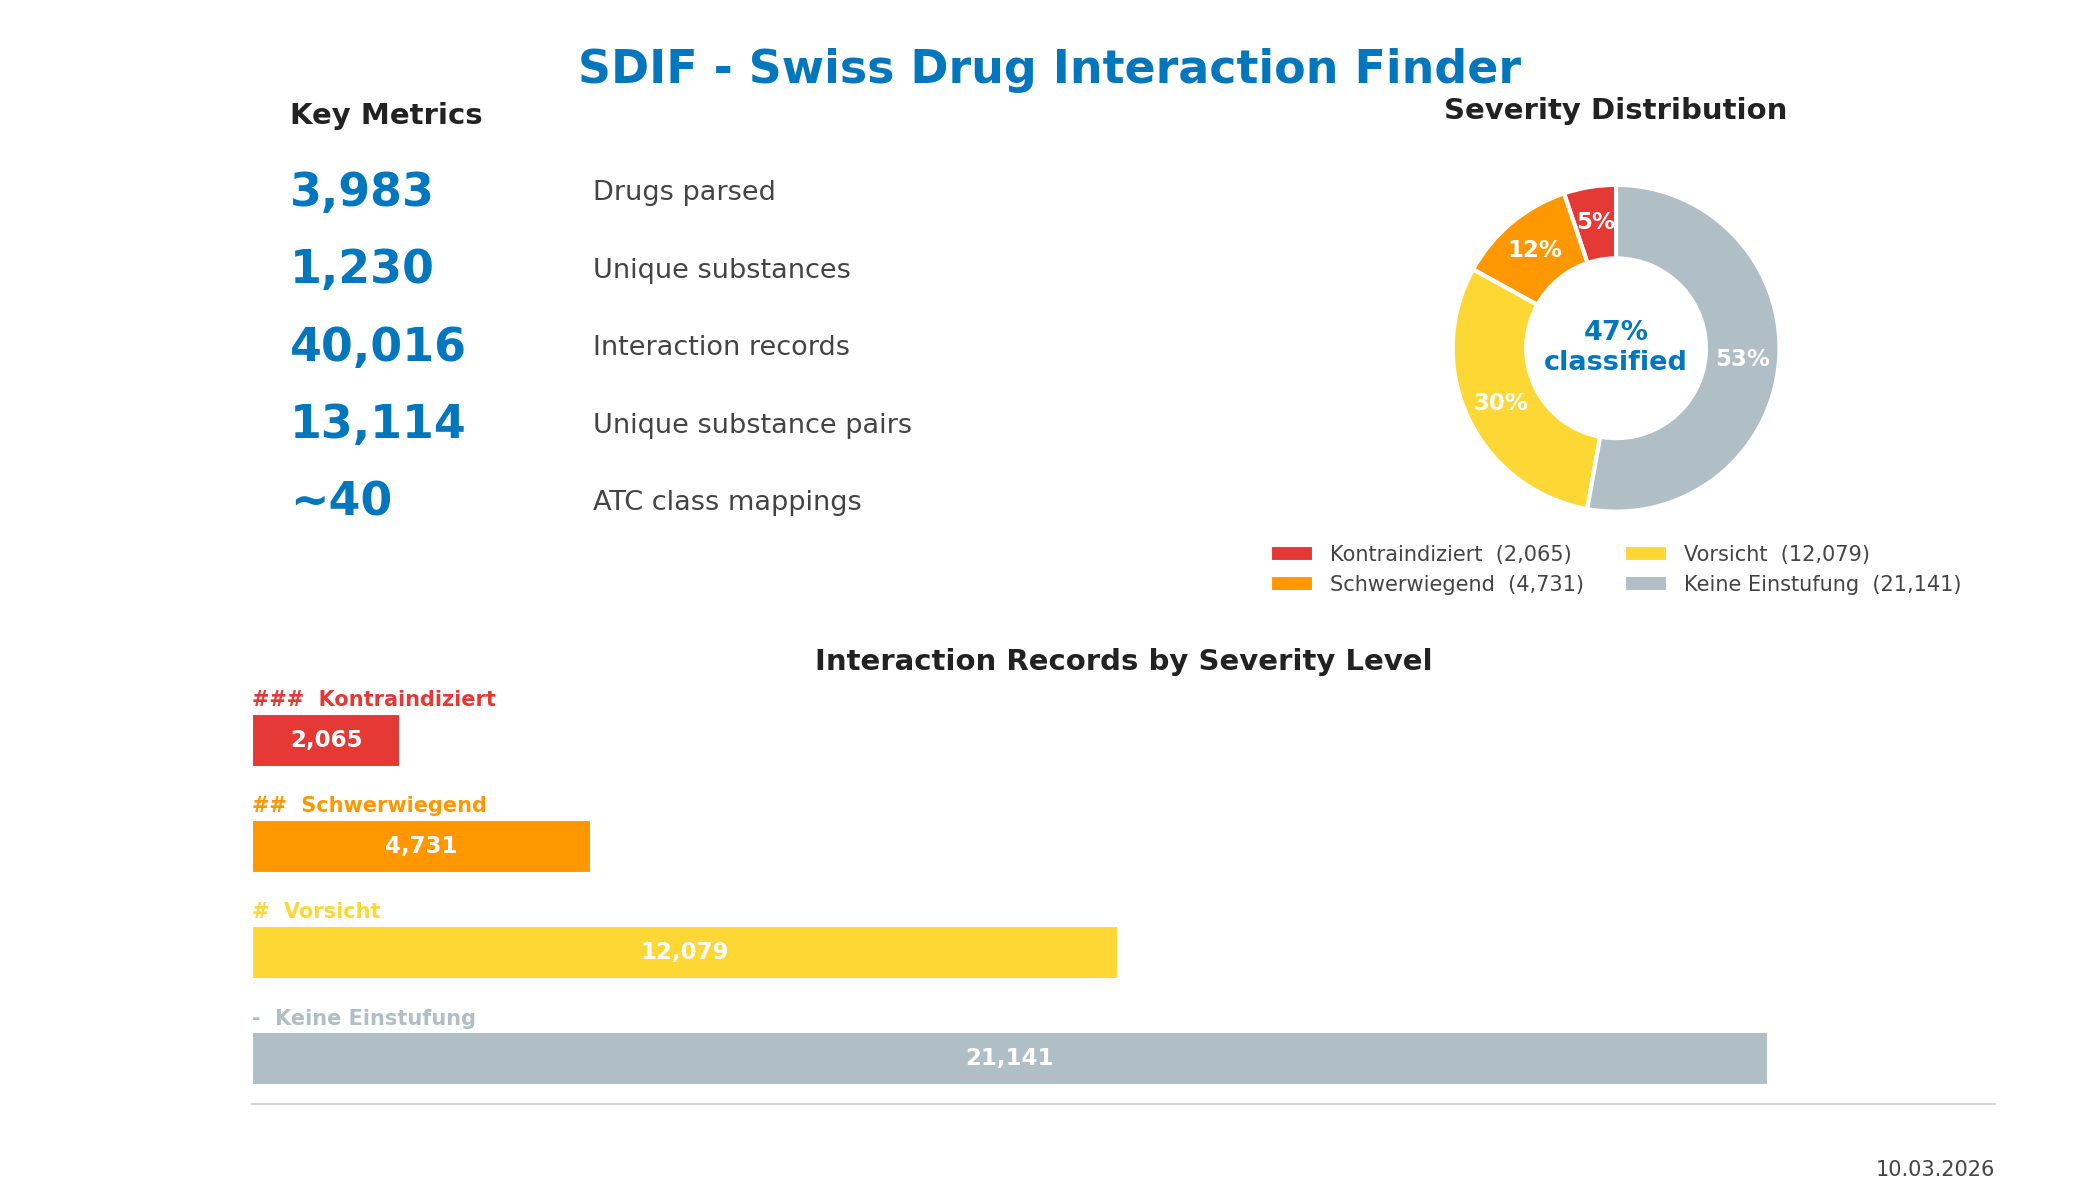
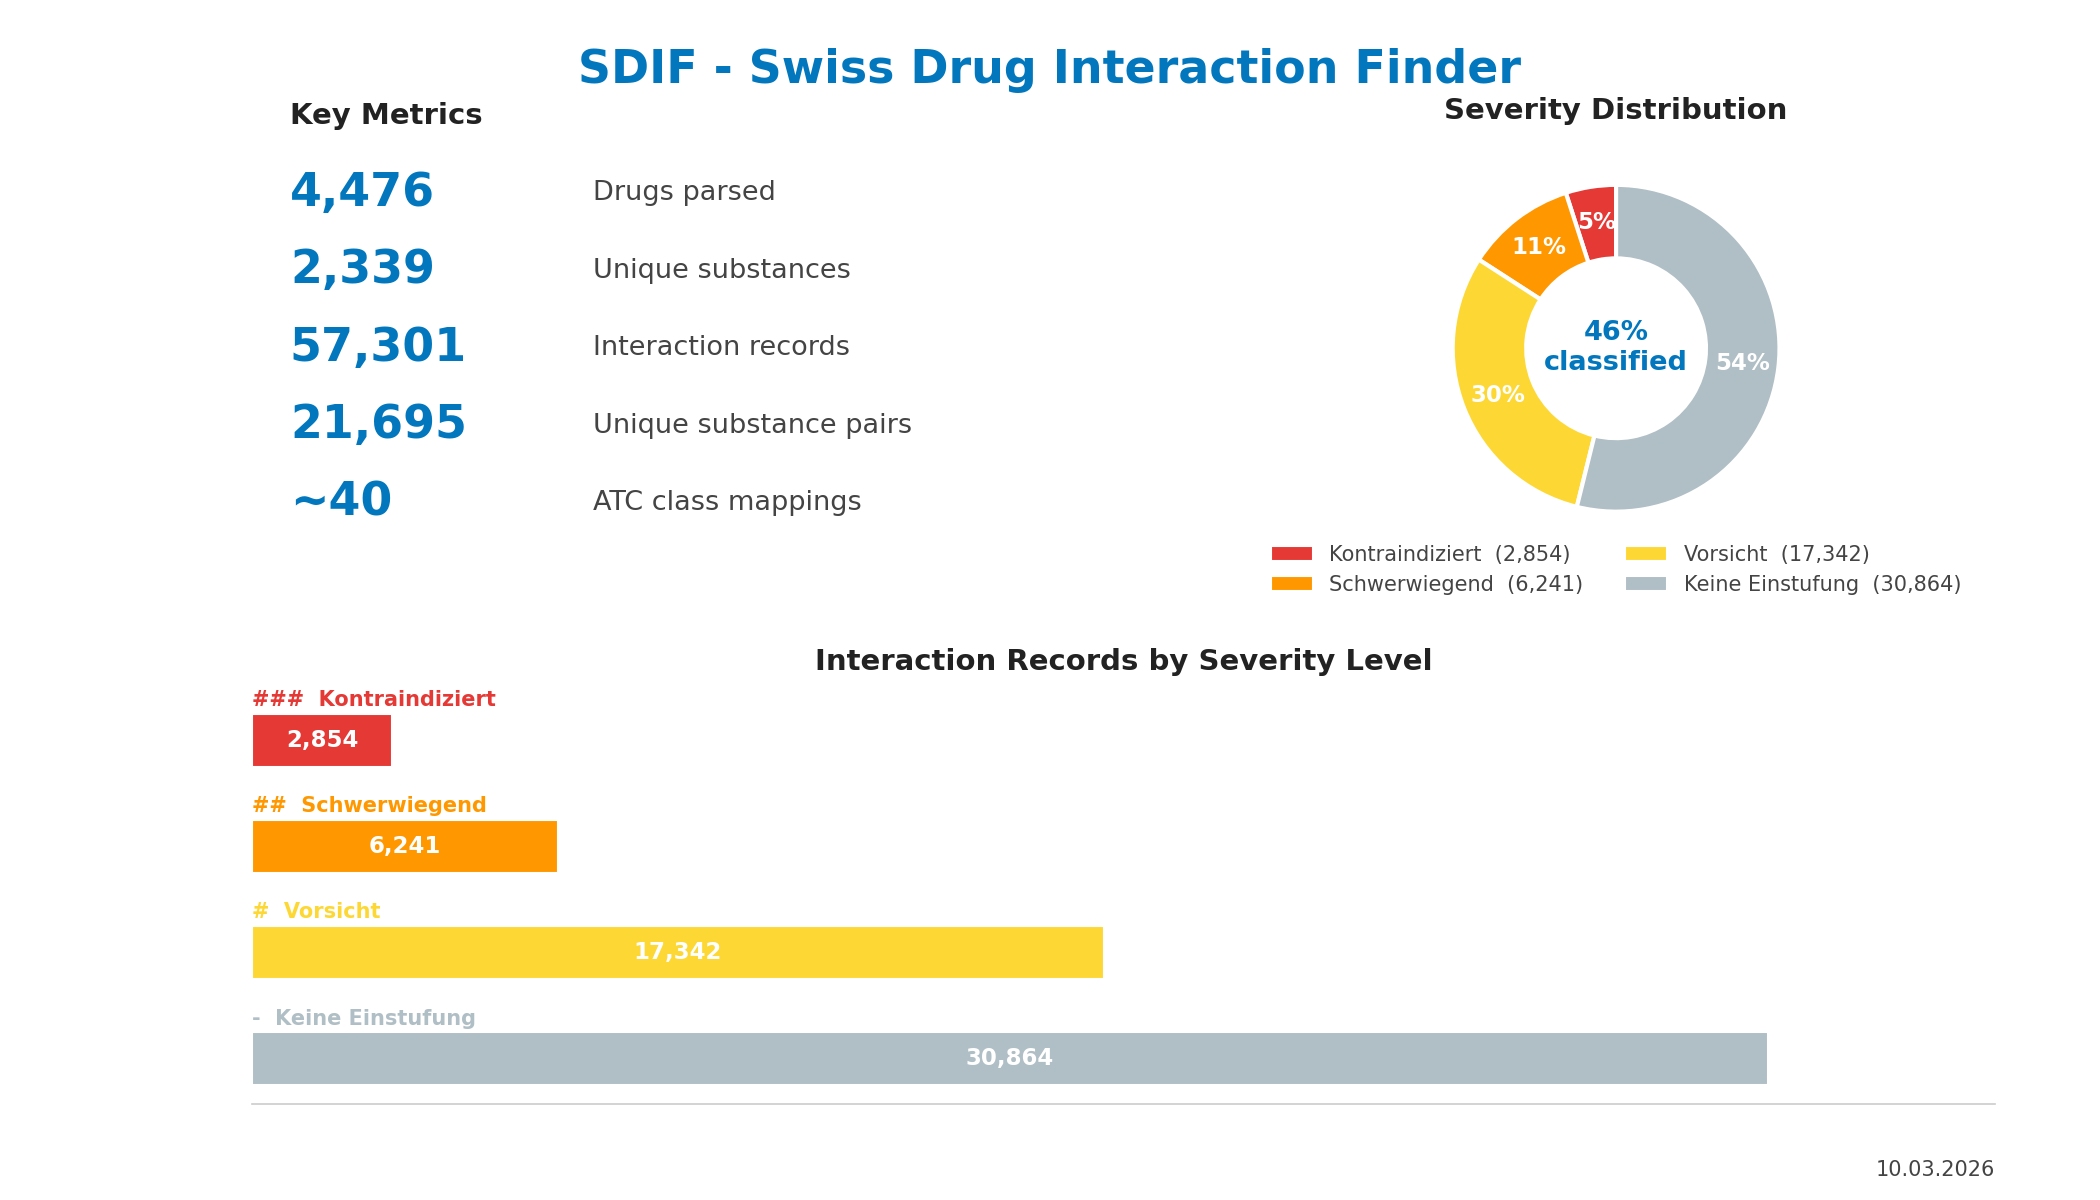
Extract substances from HTML Wirkstoffe section when ATC column is incomplete
518 entries in AmiKo DB have ATC codes but no substance names (e.g. "L01EE01;"
instead of "L01EE01;Trametinib"). Added fallback that parses the
Zusammensetzung → Wirkstoffe HTML section to recover substance names, handling
"als"/"ut" salt forms, Latin -um suffixes, and multi-substance entries.

Impact: +493 drugs, +230 substances, +17,285 interactions (+8,581 unique pairs).

diff --git a/src/main.rs b/src/main.rs
@@ -260,6 +260,107 @@ fn extract_interaction_section(content: &str) -> String {
     }
 }
 
+/// Extract active substance names from the Zusammensetzung/Wirkstoffe section of the HTML content.
+/// Falls back to this when the ATC column has a code but no substance name.
+fn extract_substances_from_html(content: &str) -> Vec<String> {
+    // Match Wirkstoff / Wirkstoffe / Wirkstoff(e) header
+    let wirkstoff_re = Regex::new(r"Wirkstoff(?:e|\(e\))?</p>").unwrap();
+    let p_tag_re = Regex::new(r#"<p[^>]*class="spacing1"[^>]*>([^<]+)</p>"#).unwrap();
+    let html_entity_re = Regex::new(r"&#\d+;").unwrap();
+    let und_re = Regex::new(r"\s+und\s+|\s+et\s+").unwrap();
+
+    let wirkstoff_pos = match wirkstoff_re.find(content) {
+        Some(m) => m.end(),
+        None => return Vec::new(),
+    };
+
+    // Collect <p> tag contents until we hit Hilfsstoff
+    let remainder = &content[wirkstoff_pos..];
+    let mut substance_text = String::new();
+    for cap in p_tag_re.captures_iter(remainder) {
+        let text = cap[1].trim().to_string();
+        let text_lower = text.to_lowercase();
+        if text_lower.contains("hilfsstoff") {
+            break;
+        }
+        // Skip italic sub-headers (e.g. "Tablettenkern:", "Filmtabletten:")
+        if text.ends_with(':') {
+            break;
+        }
+        if !substance_text.is_empty() {
+            substance_text.push_str(", ");
+        }
+        substance_text.push_str(&text);
+    }
+
+    if substance_text.is_empty() {
+        return Vec::new();
+    }
+
+    // Replace HTML entities (&#32; = space, etc.)
+    let substance_text = html_entity_re.replace_all(&substance_text, " ").to_string();
+
+    let mut substances = Vec::new();
+    // Split by comma for multi-substance entries
+    for part in substance_text.split(',') {
+        let part = part.trim();
+        if part.is_empty() {
+            continue;
+        }
+        // Split by "und" / "et" for entries like "Nivolumab und Relatlimab"
+        for name_raw in und_re.split(part) {
+            let name = extract_substance_name(name_raw.trim());
+            if name.len() > 2 {
+                substances.push(name);
+            }
+        }
+    }
+
+    substances
+}
+
+/// Clean up a single substance name from Wirkstoffe text.
+/// Handles patterns like:
+///   "Trametinib als Trametinibdimethylsulfoxid" → "Trametinib"
+///   "Desvenlafaxinum ut desvenlafaxini benzoas" → "Desvenlafaxin"
+///   "Fedratinib (als Dihydrochlorid-Monohydrat)." → "Fedratinib"
+///   "Bimekizumab, aus gentechnisch..." → "Bimekizumab"
+fn extract_substance_name(text: &str) -> String {
+    let mut name = text.to_string();
+
+    // Remove trailing period
+    name = name.trim_end_matches('.').trim().to_string();
+
+    // Take text before "als" or "ut" (salt form indicator)
+    for separator in &[" als ", " ut "] {
+        if let Some(pos) = name.to_lowercase().find(separator) {
+            name = name[..pos].trim().to_string();
+        }
+    }
+
+    // Remove parenthesized content
+    if let Some(pos) = name.find('(') {
+        name = name[..pos].trim().to_string();
+    }
+
+    // Strip trailing period again (in case it was before parentheses)
+    name = name.trim_end_matches('.').trim().to_string();
+
+    // Strip Latin -um suffix to get INN name (e.g. Desvenlafaxinum → Desvenlafaxin)
+    // But only for typical Latin pharmaceutical suffixes, not words like "Aluminium"
+    if name.ends_with("um") && name.len() > 6 {
+        let stem = &name[..name.len() - 2];
+        // Latin pharma names typically end in -inum, -abum, -ibum, etc.
+        // Check it's not a common word ending in -um (Aluminium, Calcium, etc.)
+        let lower = name.to_lowercase();
+        if !lower.ends_with("ium") && !lower.ends_with("eum") {
+            name = stem.to_string();
+        }
+    }
+
+    name
+}
+
 fn parse_all_drugs(conn: &Connection) -> Result<Vec<Drug>> {
     let mut stmt = conn.prepare(
         "SELECT _id, title, atc, atc_class, content FROM amikodb WHERE content IS NOT NULL AND content != ''",
@@ -283,6 +384,7 @@ fn parse_all_drugs(conn: &Connection) -> Result<Vec<Drug>> {
     let und_re = Regex::new(r"\s+und\s+|\s+et\s+").unwrap();
 
     let mut drugs = Vec::new();
+    let mut html_fallback_count = 0u32;
     for (idx, (id, title, atc, atc_class, content)) in rows.iter().enumerate() {
         if idx % 500 == 0 {
             eprint!("\r  Parsing drug {}/{}...", idx, rows.len());
@@ -304,6 +406,14 @@ fn parse_all_drugs(conn: &Connection) -> Result<Vec<Drug>> {
             }
         }
 
+        // Fallback: extract from Zusammensetzung/Wirkstoffe HTML section
+        if active_substances.is_empty() && !atc_code.is_empty() {
+            active_substances = extract_substances_from_html(content);
+            if !active_substances.is_empty() {
+                html_fallback_count += 1;
+            }
+        }
+
         let interactions_text = extract_interaction_section(content);
 
         if active_substances.is_empty() {
@@ -320,6 +430,9 @@ fn parse_all_drugs(conn: &Connection) -> Result<Vec<Drug>> {
         });
     }
     eprintln!("\r  Parsing done.                    ");
+    if html_fallback_count > 0 {
+        println!("  Extracted substances from HTML for {} drugs (ATC column had no substance name)", html_fallback_count);
+    }
 
     Ok(drugs)
 }

diff --git a/generate_stats.py b/generate_stats.py
@@ -27,10 +27,10 @@ ax1.set_facecolor('#ffffff')
 ax1.axis('off')
 
 metrics = [
-    ('3,983', 'Drugs parsed'),
-    ('1,230', 'Unique substances'),
-    ('40,016', 'Interaction records'),
-    ('13,114', 'Unique substance pairs'),
+    ('4,476', 'Drugs parsed'),
+    ('2,339', 'Unique substances'),
+    ('57,301', 'Interaction records'),
+    ('21,695', 'Unique substance pairs'),
     ('~40', 'ATC class mappings'),
 ]
 
@@ -49,7 +49,7 @@ ax2 = fig.add_subplot(gs[0, 1])
 ax2.set_facecolor('#ffffff')
 
 severity_labels = ['Kontraindiziert', 'Schwerwiegend', 'Vorsicht', 'Keine Einstufung']
-severity_values = [2065, 4731, 12079, 21141]
+severity_values = [2854, 6241, 17342, 30864]
 severity_colors = ['#e53935', '#ff9800', '#fdd835', '#b0bec5']
 
 wedges, texts, autotexts = ax2.pie(
@@ -63,7 +63,7 @@ for t in autotexts:
     t.set_color('#ffffff')
 
 # Center text
-ax2.text(0, 0, '47%\nclassified', ha='center', va='center',
+ax2.text(0, 0, '46%\nclassified', ha='center', va='center',
          fontsize=13, fontweight='bold', color=accent)
 
 ax2.set_title('Severity Distribution', fontsize=14, fontweight='bold',

diff --git a/CLAUDE.md b/CLAUDE.md
@@ -28,13 +28,13 @@ sdif search "QT-Verlängerung" -l 5
 - **Output**: `db/interactions.db` — pre-computed interactions DB
 
 ### Key data flow
-1. Parse ATC column (`"M01AG01;Mefenaminsäure"`) for German substance names
+1. Parse ATC column (`"M01AG01;Mefenaminsäure"`) for German substance names; fallback to Zusammensetzung/Wirkstoffe HTML section when ATC column has code but no substance name
 2. Extract "Interaktionen" HTML section + interaction-relevant sentences from "Warnhinweise", "Kontraindikationen", "Dosierung"
 3. Aho-Corasick multi-pattern match all known substances against interaction texts
 4. Store substance-level interactions with best-severity context snippets
 
 ### Interaction detection
-- **Substance-level**: Exact substance name match in interaction text (40,016 records, 13,114 unique substance pairs)
+- **Substance-level**: Exact substance name match in interaction text (57,301 records, 21,695 unique substance pairs)
 - **ATC class-level**: Maps ~40 ATC prefixes to German class keywords for basket checks
   - e.g. B01A → "antikoagul", "warfarin"; M01A → "antiphlogistika", "nsar"
   - Covers: anticoagulants, NSAIDs, opioids, ACE inhibitors, sartans, beta-blockers, Ca-channel blockers, diuretics, cardiac glycosides, antiarrhythmics, statins, SSRIs/SNRIs, antidiabetics, corticosteroids, immunosuppressants, antineoplastics, antiepiletics, antipsychotics, anxiolytics, antibiotics (macrolides, fluoroquinolones), antimycotics, antivirals, PPIs, contraceptives, bronchodilators, gout agents, iron supplements, SERMs (L02BA), muscle relaxants (M03A), antidotes (V03AB)

diff --git a/README.md b/README.md
@@ -7,7 +7,7 @@ A Rust tool that builds a searchable drug interactions SQLite database from the 
 ## How it works
 
 1. Downloads and reads the AmiKo full-text database (`amiko_db_full_idx_de.db`)
-2. Extracts active substance names from ATC codes (German names)
+2. Extracts active substance names from ATC codes (German names), with fallback to the Zusammensetzung/Wirkstoffe HTML section when the ATC column lacks substance names
 3. Parses the "Interaktionen" chapter plus interaction-relevant sentences from "Warnhinweise und Vorsichtsmassnahmen", "Kontraindikationen" and "Dosierung"
 4. Uses Aho-Corasick multi-pattern matching to find substance mentions across all interaction texts
 5. Scores severity of each interaction by scanning for German clinical keywords
@@ -65,11 +65,11 @@ Generates `db/interactions.db` with the following tables:
 
 ### Stats (as of March 2026)
 
-- 3,983 drugs parsed
-- 1,230 unique substances
-- 40,016 interaction records (13,114 unique substance pairs)
+- 4,476 drugs parsed (493 recovered via HTML Wirkstoffe fallback)
+- 2,339 unique substances
+- 57,301 interaction records (21,695 unique substance pairs)
 - ~40 ATC drug class keyword mappings
-- Severity distribution: 2,065 Kontraindiziert / 4,731 Schwerwiegend / 12,079 Vorsicht / 21,141 Keine Einstufung
+- Severity distribution: 2,854 Kontraindiziert / 6,241 Schwerwiegend / 17,342 Vorsicht / 30,864 Keine Einstufung
 
 ## Example: Ponstan + Marcoumar + Aspirin
 
